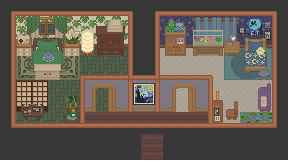
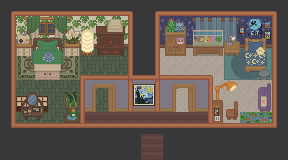
feat(create bedroom): change coordinates of mirror and highlight to fit to bedroom (#174)

diff --git a/src/utils/highlightPositions.tsx b/src/utils/highlightPositions.tsx
@@ -89,8 +89,8 @@ export function getHighlightPosition(device: InteractivePixiElement, position: {
               <>
                 <Sprite
                         key={device.name + "highlight"}
-                        x={position.x + TILE_SIZE * 8.31}
-                        y={position.y + TILE_SIZE * 5.51}
+                        x={position.x + TILE_SIZE * 8.93}
+                        y={position.y + TILE_SIZE * 5.27}
                         texture={loadTexture(mirror as string)}
                         scale={{ x: 1, y: 1 }}
                         anchor={0.5}

diff --git a/src/components/rooms/Bedroom.tsx b/src/components/rooms/Bedroom.tsx
@@ -6,7 +6,7 @@ import SmartMirror from "@/components/smart-devices/SmartMirror.tsx";
 
 export const Bedroom = () => {
   const interactiveElements = [
-    new InteractivePixiElement(1, 5, 2, 2, "SmartMirror", InteractiveType.SMART_DEVICE),
+    new InteractivePixiElement(1, 6, 2, 2, "SmartMirror", InteractiveType.SMART_DEVICE),
   ];
 
   const deviceComponents = {
